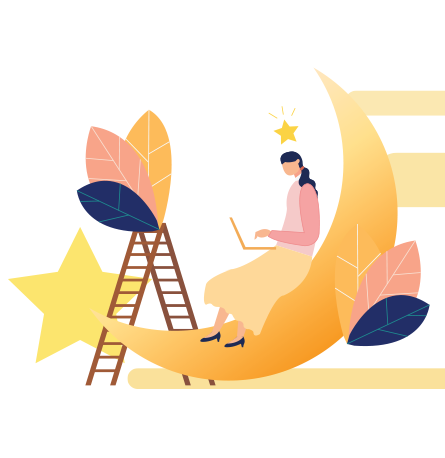
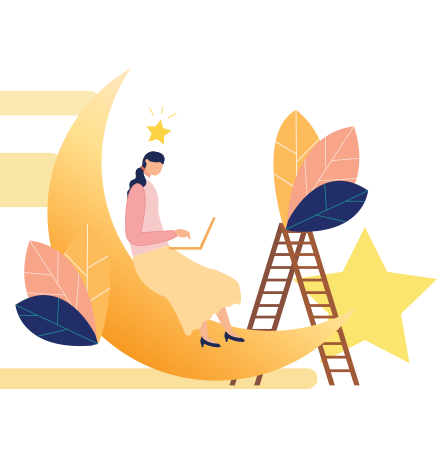
up

diff --git a/index.html b/index.html
@@ -110,7 +110,7 @@
     			<div class="col-md-6 col-lg-5 d-flex">
     				<div class="img-about img d-flex align-items-stretch">
     					<div class="overlay"></div>
-	    				<div class="img d-flex align-self-stretch align-items-center" style="background-image:url(images/woman4.png);">
+	    				<div class="img d-flex align-self-stretch align-items-center" style="background-image:url(images/woman5.png);">
 	    				</div>
     				</div>
     			</div>
@@ -158,7 +158,7 @@
         </div>
     		<div class="row">
 					<div class="col-md-4 text-center d-flex ftco-animate">
-						<a href="#" class="services-1">
+						<a class="services-1">
 							<span class="icon">
 								<i class="flaticon-analysis"></i>
 							</span>
@@ -169,7 +169,7 @@
 						</a>
 					</div>
 					<div class="col-md-4 text-center d-flex ftco-animate">
-						<a href="#" class="services-1">
+						<a class="services-1">
 							<span class="icon">
 								<i class="flaticon-flasks"></i>
 							</span>
@@ -180,7 +180,7 @@
 						</a>
 					</div>
 					<div class="col-md-4 text-center d-flex ftco-animate">
-						<a href="#" class="services-1">
+						<a class="services-1">
 							<span class="icon">
 								<i class="flaticon-ideas"></i>
 							</span>
@@ -192,7 +192,7 @@
 					</div>
 
 					<div class="col-md-4 text-center d-flex ftco-animate">
-						<a href="#" class="services-1">
+						<a class="services-1">
 							<span class="icon">
 								<i class="flaticon-analysis"></i>
 							</span>
@@ -203,7 +203,7 @@
 						</a>
 					</div>
 					<div class="col-md-4 text-center d-flex ftco-animate">
-						<a href="#" class="services-1">
+						<a class="services-1">
 							<span class="icon">
 								<i class="flaticon-flasks"></i>
 							</span>
@@ -214,7 +214,7 @@
 						</a>
 					</div>
 					<div class="col-md-4 text-center d-flex ftco-animate">
-						<a href="#" class="services-1">
+						<a class="services-1">
 							<span class="icon">
 								<i class="flaticon-ideas"></i>
 							</span>
@@ -472,7 +472,7 @@
             </div>
                 
             <div class="modal-content">
-                <div class="b_img"><img src="images/banner7-1.png"></div>
+                <div class="b_img"><img src="images/child.png"></div>
             </div>
         </div>
           </div>

diff --git a/css/style.css b/css/style.css
@@ -1093,7 +1093,7 @@ pre {
     -webkit-box-flex: 0;
     -ms-flex: 0 0 41.66667%;
     flex: 0 0 41.66667%;
-    max-width: 41.66667%; }
+    max-width: 52.66667%; }
   .col-lg-6 {
     -webkit-box-flex: 0;
     -ms-flex: 0 0 50%;
@@ -1103,7 +1103,7 @@ pre {
     -webkit-box-flex: 0;
     -ms-flex: 0 0 58.33333%;
     flex: 0 0 58.33333%;
-    max-width: 58.33333%; }
+    max-width: 47.33333%; }
   .col-lg-8 {
     -webkit-box-flex: 0;
     -ms-flex: 0 0 66.66667%;
@@ -8756,8 +8756,8 @@ h1, h2, h3, h4, h5,
     border: 1px solid #fee25e !important;
     color: #fff !important; }
     .btn.btn-primary:hover {
-      border: 1px solid #c4d9ff !important;
-      background: #3058a1 !important;
+      border: 1px solid #fdda36 !important;
+      background: #fdda36 !important;
       color: #fff !important; }
     .btn.btn-primary.btn-outline-primary {
       border: 2px solid #ffbd39 !important;
@@ -8803,12 +8803,14 @@ h1, h2, h3, h4, h5,
 .ftco-about .img-about {
   width: 100%;
   z-index: 0;
-  position: relative; }
+  position: relative;
+top: 2%}
   .ftco-about .img-about .img {
     display: block;
-    width: 100%;
+    width: 600px;
+	  height: 473px;
     position: relative;
-    z-index: 1; }
+    z-index: 1;}
 
 .ftco-about ul.about-info {
   display: inline-block;
@@ -8908,6 +8910,8 @@ h1, h2, h3, h4, h5,
       color: #fff; }
       .services-1:hover h3:after {
         background: #fff; }
+
+.services-1:hover p{color: #fff}
 
 .progress-wrap {
   width: 100%;
@@ -9231,7 +9235,7 @@ textarea.form-control {
     letter-spacing: 3px; }
   .heading-section h1.big {
     position: absolute;
-    top: 0px;
+    top: -65px;
     left: 0;
     font-size: 7vw;
     color: #fae583;
@@ -9239,7 +9243,8 @@ textarea.form-control {
     font-weight: 900;
 	opacity: 0.2}
     .heading-section h1.big.big-2 {
-      right: 0; }
+      right: 0;
+top: -60%}
   .heading-section h2 {
     font-size: 50px;
     font-weight: 700; padding-bottom: }
